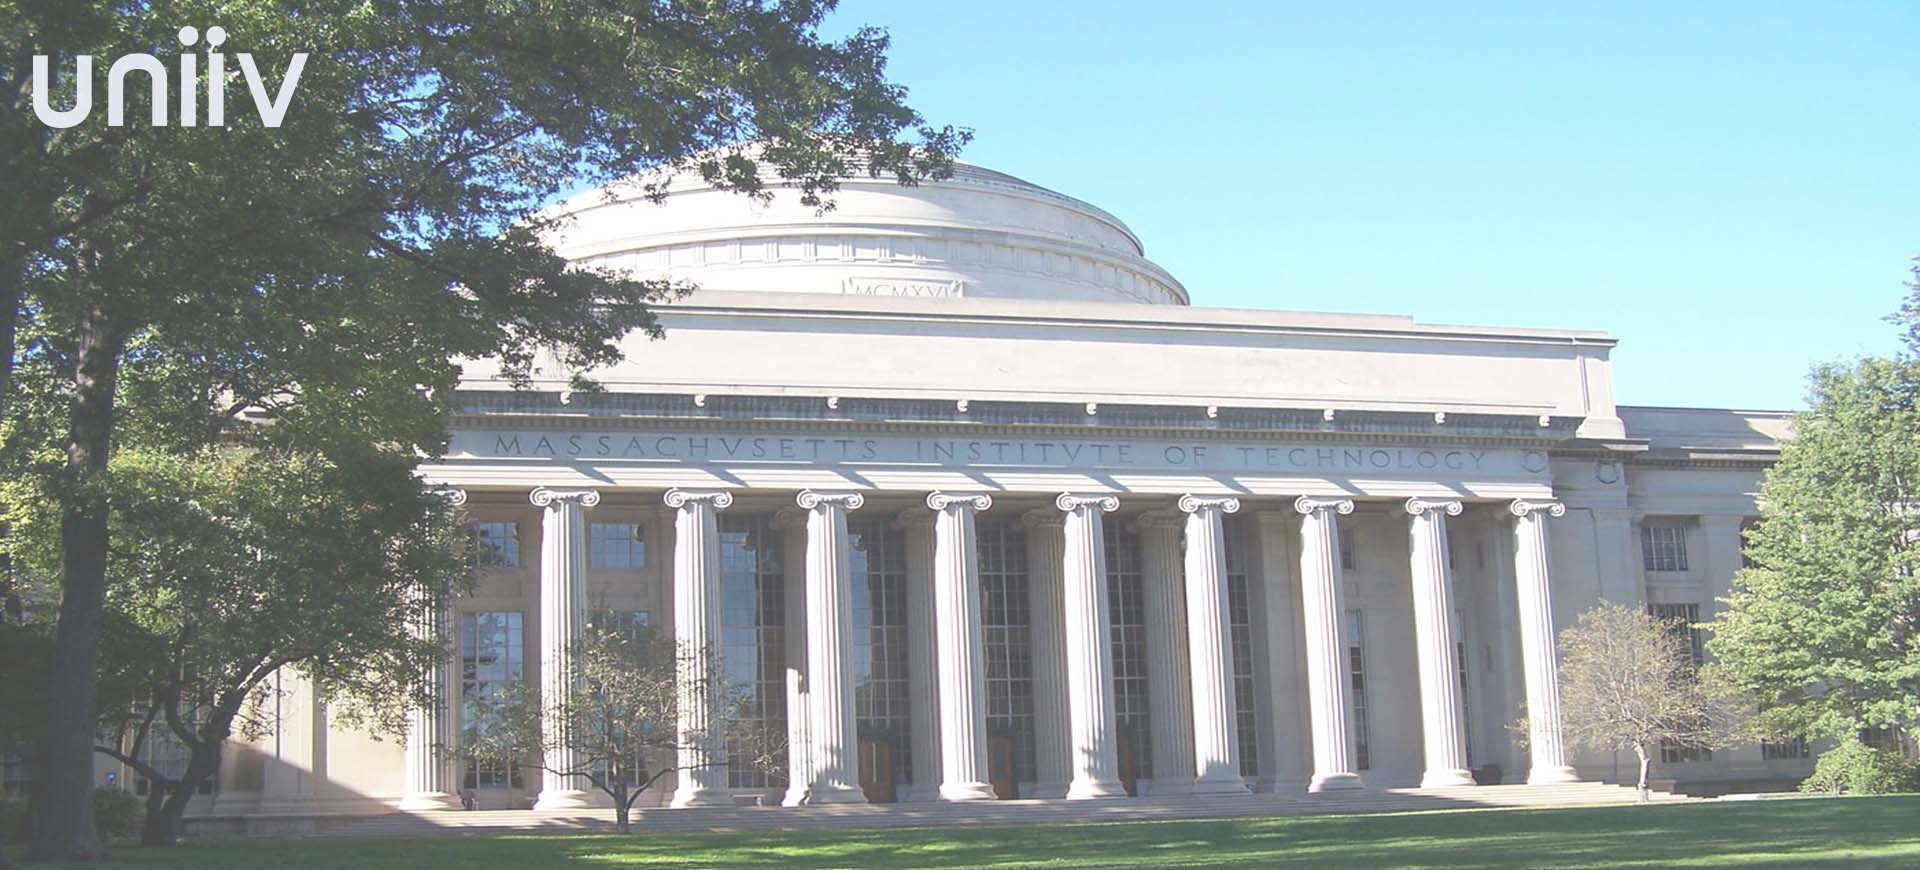
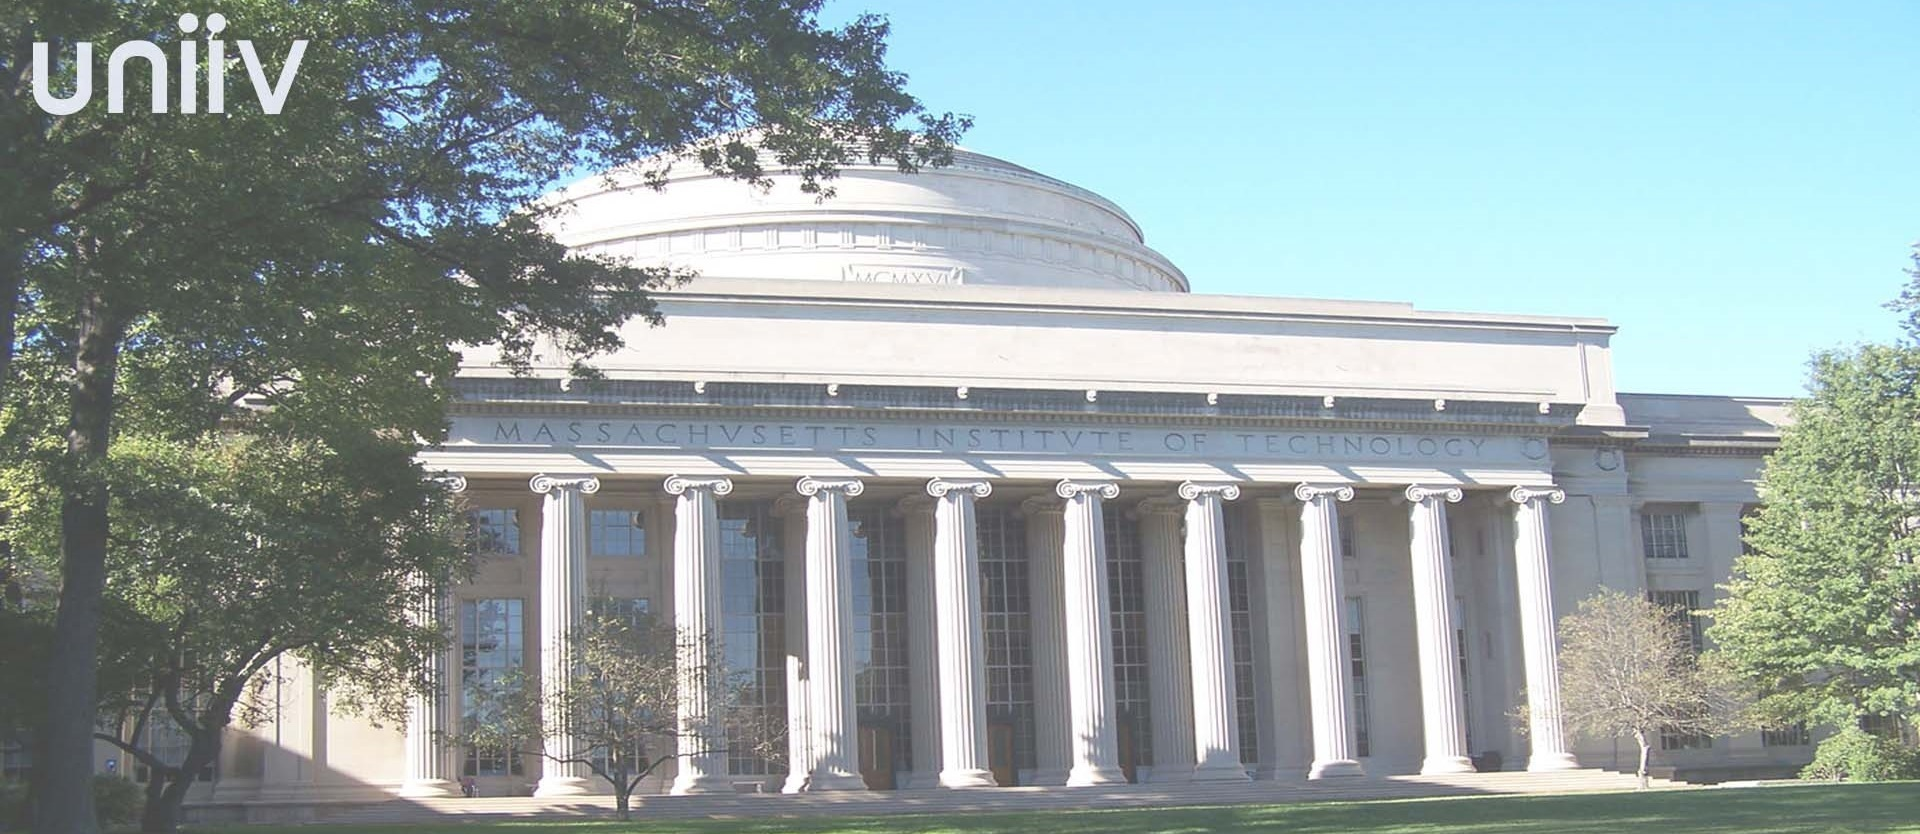
some nice homepage stuff

Changed region(s): [[0.0, 0.3741, 1.0, 1.0], [0.0, 0.0, 0.5938, 0.3429], [0.125, 0.3118, 0.1875, 0.3429]]

diff --git a/Bendo/WebContent/styles/style.css b/Bendo/WebContent/styles/style.css
@@ -210,9 +210,6 @@ h1 span {
 	width: 5px;
 }
 
-
-
-
 /*--------------------------------
 
 	buttons SIGN UP LOGIN 
@@ -2376,4 +2373,22 @@ li.error {
 .autoCompleteSuggestionImg.professor
 {
 	background: url("../images/icon/professor_quality.png");
+}
+/***************************************************************************************
+*				Homepage
+****************************************************************************************/
+.home_image_bg
+{
+	position: relative;
+	top: -20px;
+	width: 100%;
+	margin-bottom: -40px;
+}
+.home_black_fill
+{
+	background-color: #000000;
+	position: absolute;
+	top: 0px;
+	bottom: 0px;
+	width: 100%;
 }
